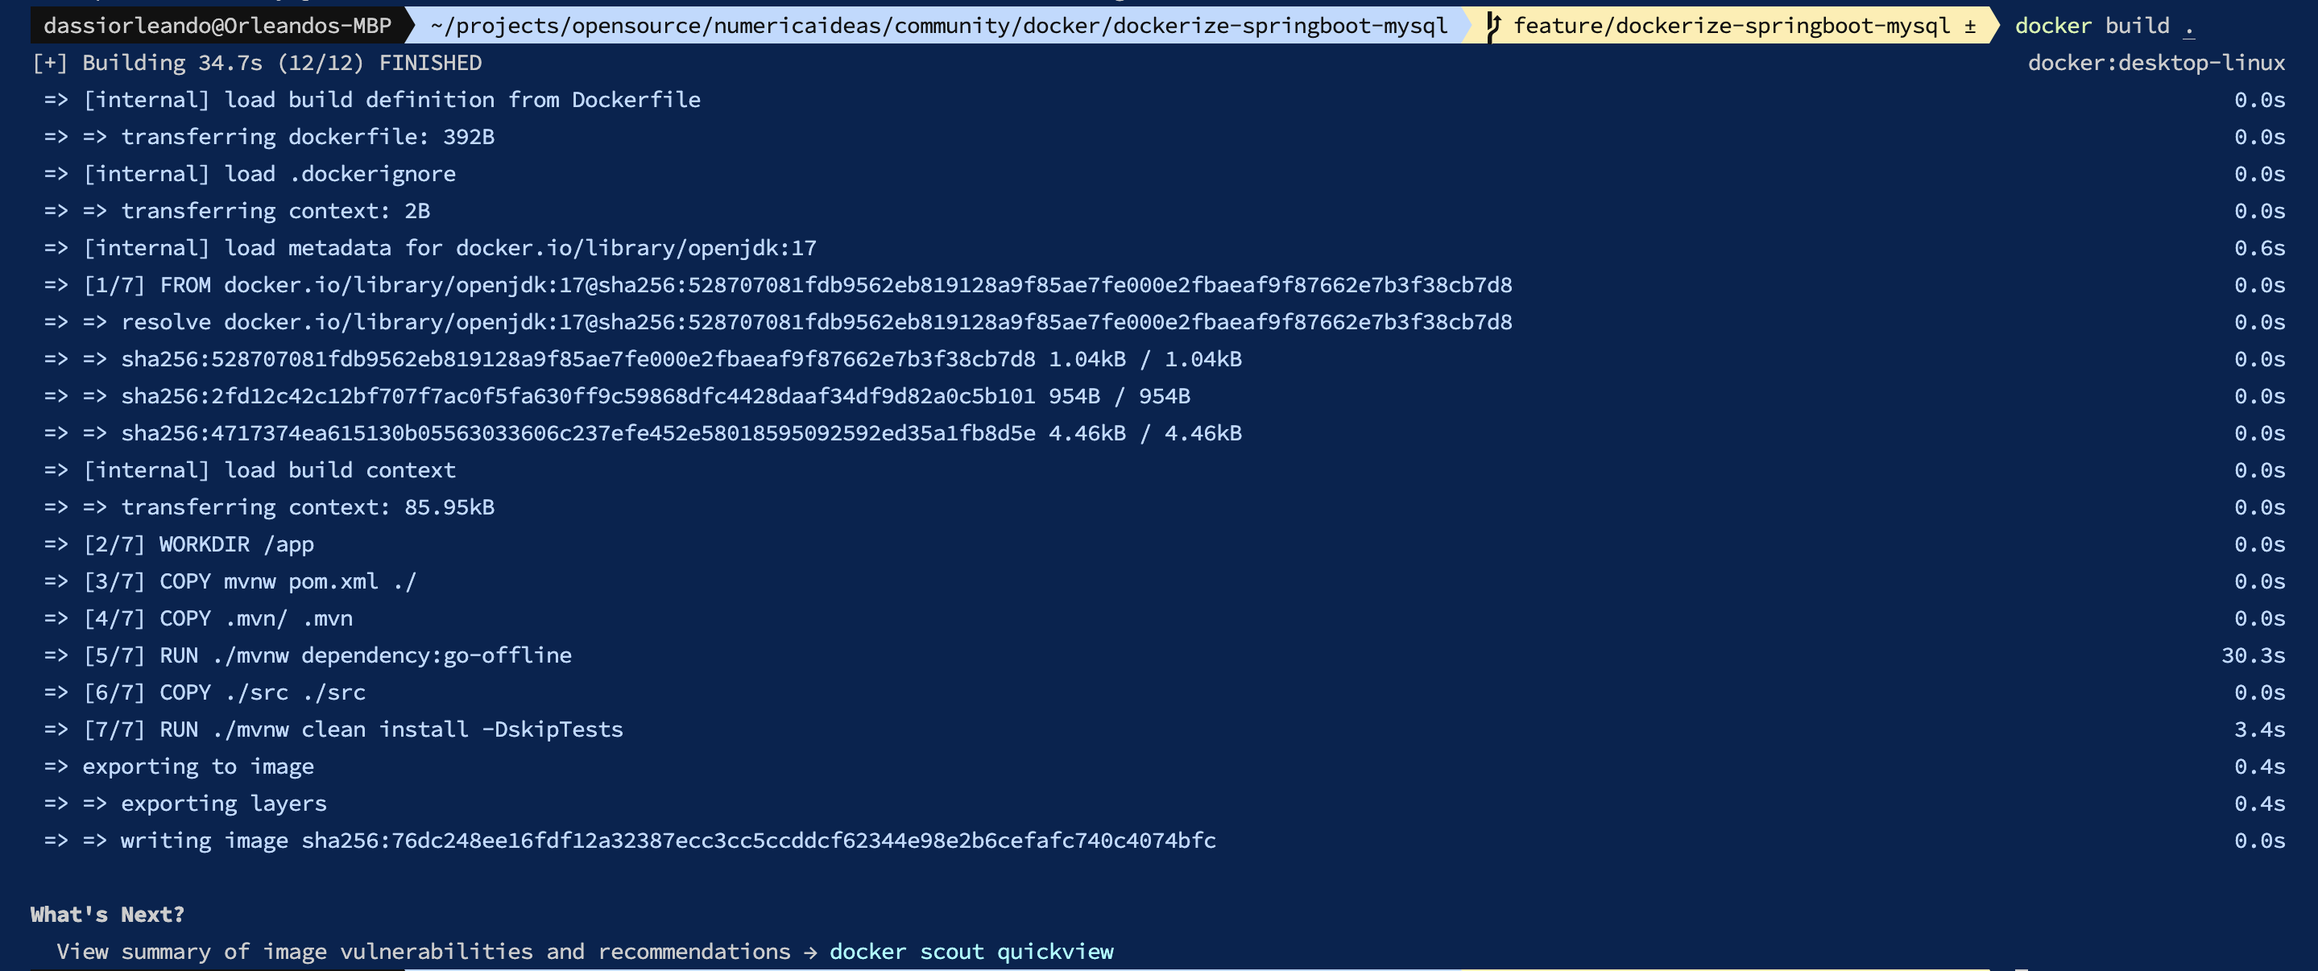
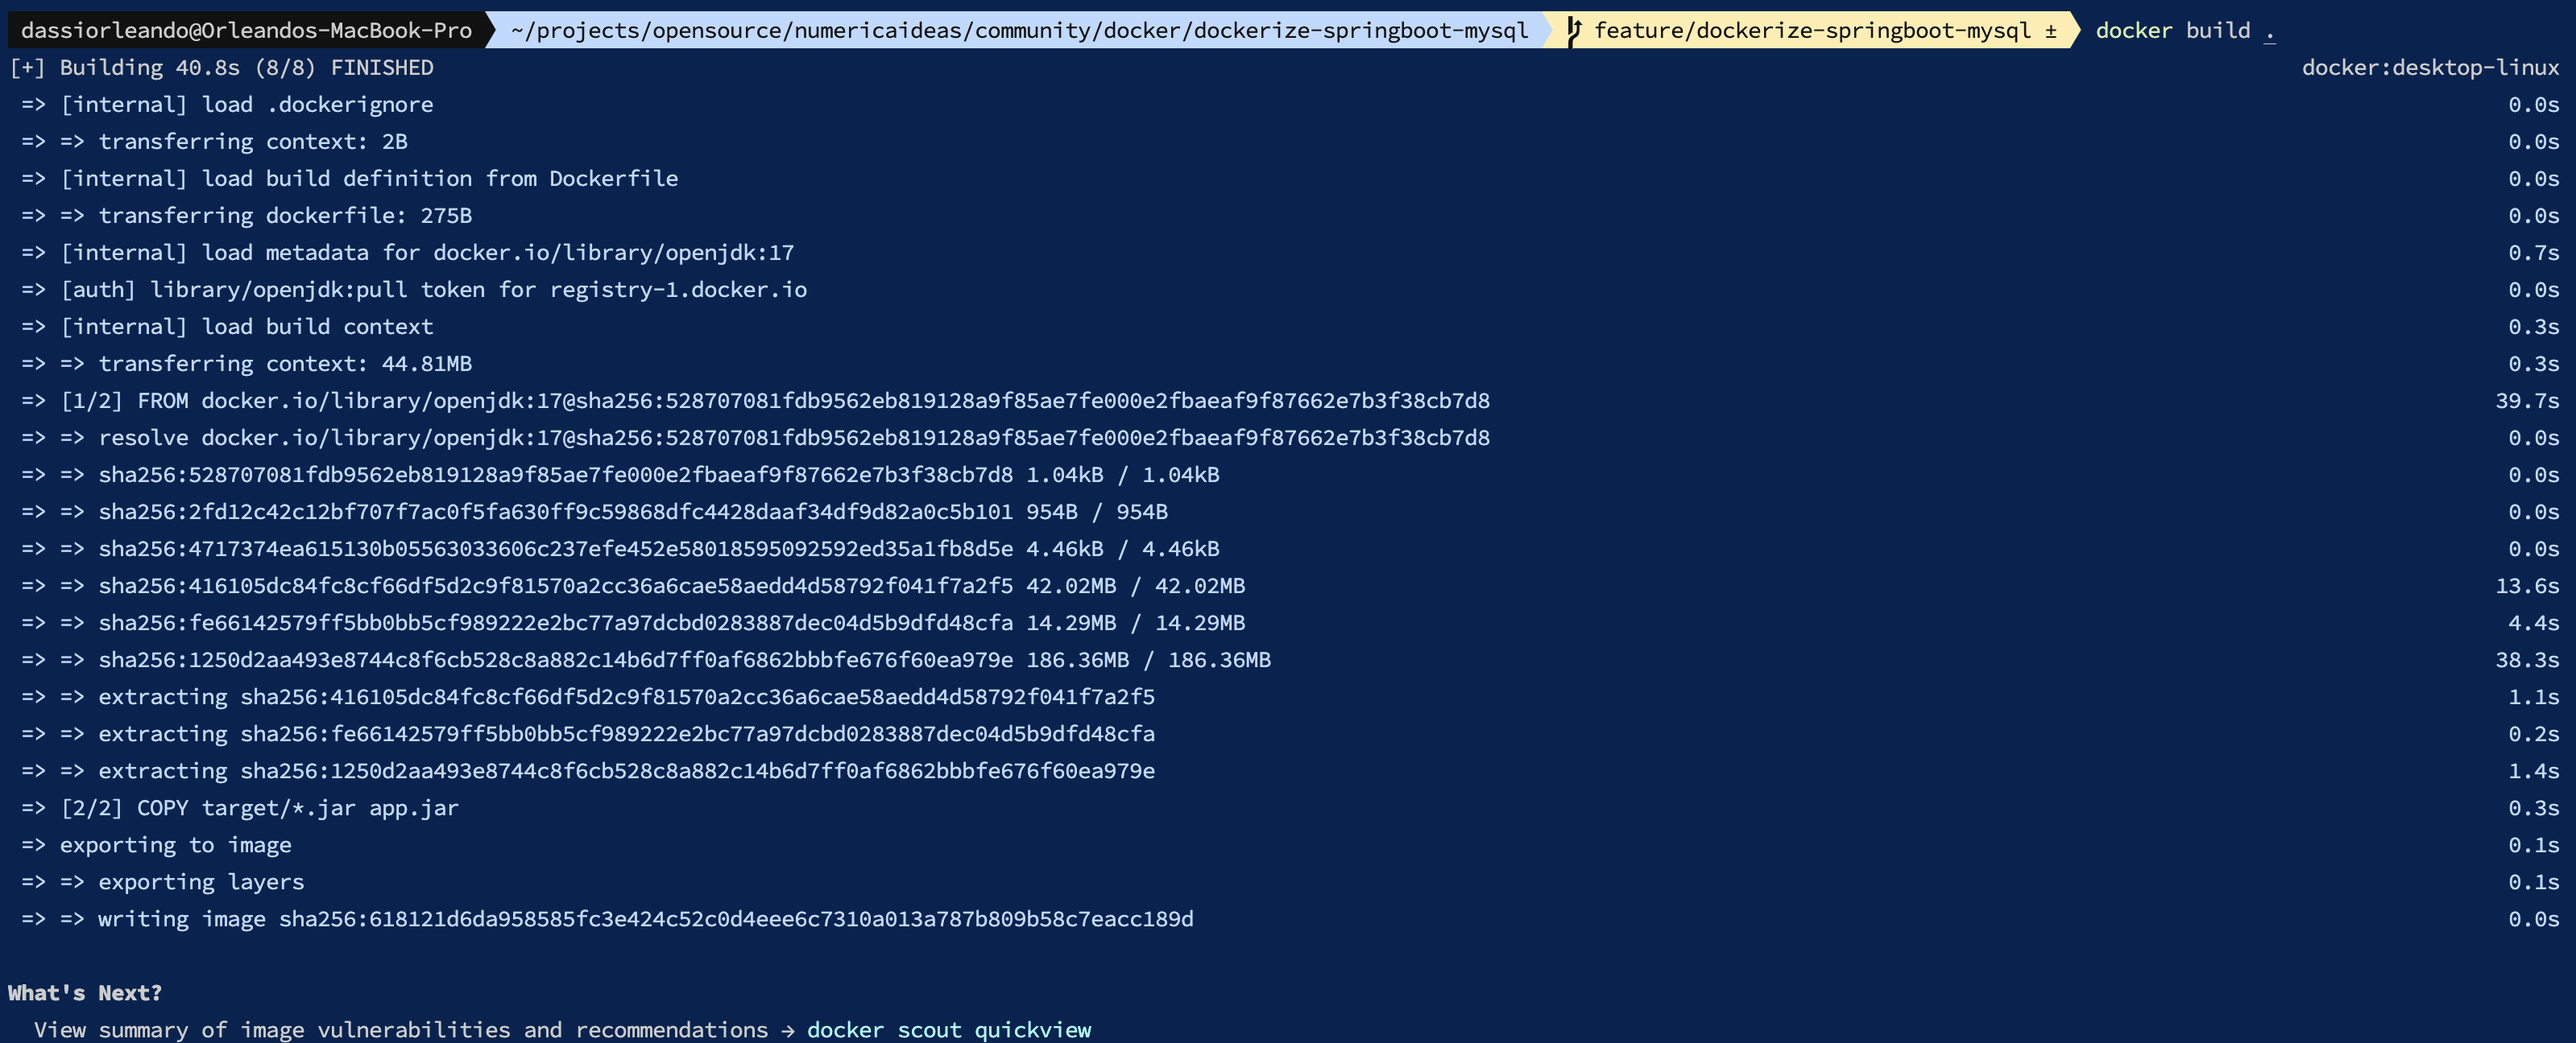
Simplified the Spring Boot App docker image

Changed region(s): [[0.0, 0.0, 1.0, 0.8897], [0.0, 0.9204, 0.4948, 1.0]]

diff --git a/docker/dockerize-springboot-mysql/README.md b/docker/dockerize-springboot-mysql/README.md
@@ -85,22 +85,15 @@ The `Dockerfile` should be provided to build an image of the Spring Boot Applica
 # Use a base image with Java 17
 FROM openjdk:17
 
-WORKDIR /app
-
-# Copy the necessary files and folders to the image
-COPY mvnw pom.xml ./
-COPY .mvn/ .mvn
-RUN ./mvnw dependency:go-offline
-COPY ./src ./src
-
-# Package the application
-RUN ./mvnw clean install -DskipTests
+# Copy the JAR package into the image
+ARG JAR_FILE=target/*.jar
+COPY ${JAR_FILE} app.jar
 
 # Expose the application port
 EXPOSE 8090
 
 # Run the App
-CMD ["./mvnw", "spring-boot:run"]
+ENTRYPOINT ["java", "-jar", "/app.jar"]
 ```
 
 By building your image with the command `docker build .`, a successful output should be similar to the next image:
